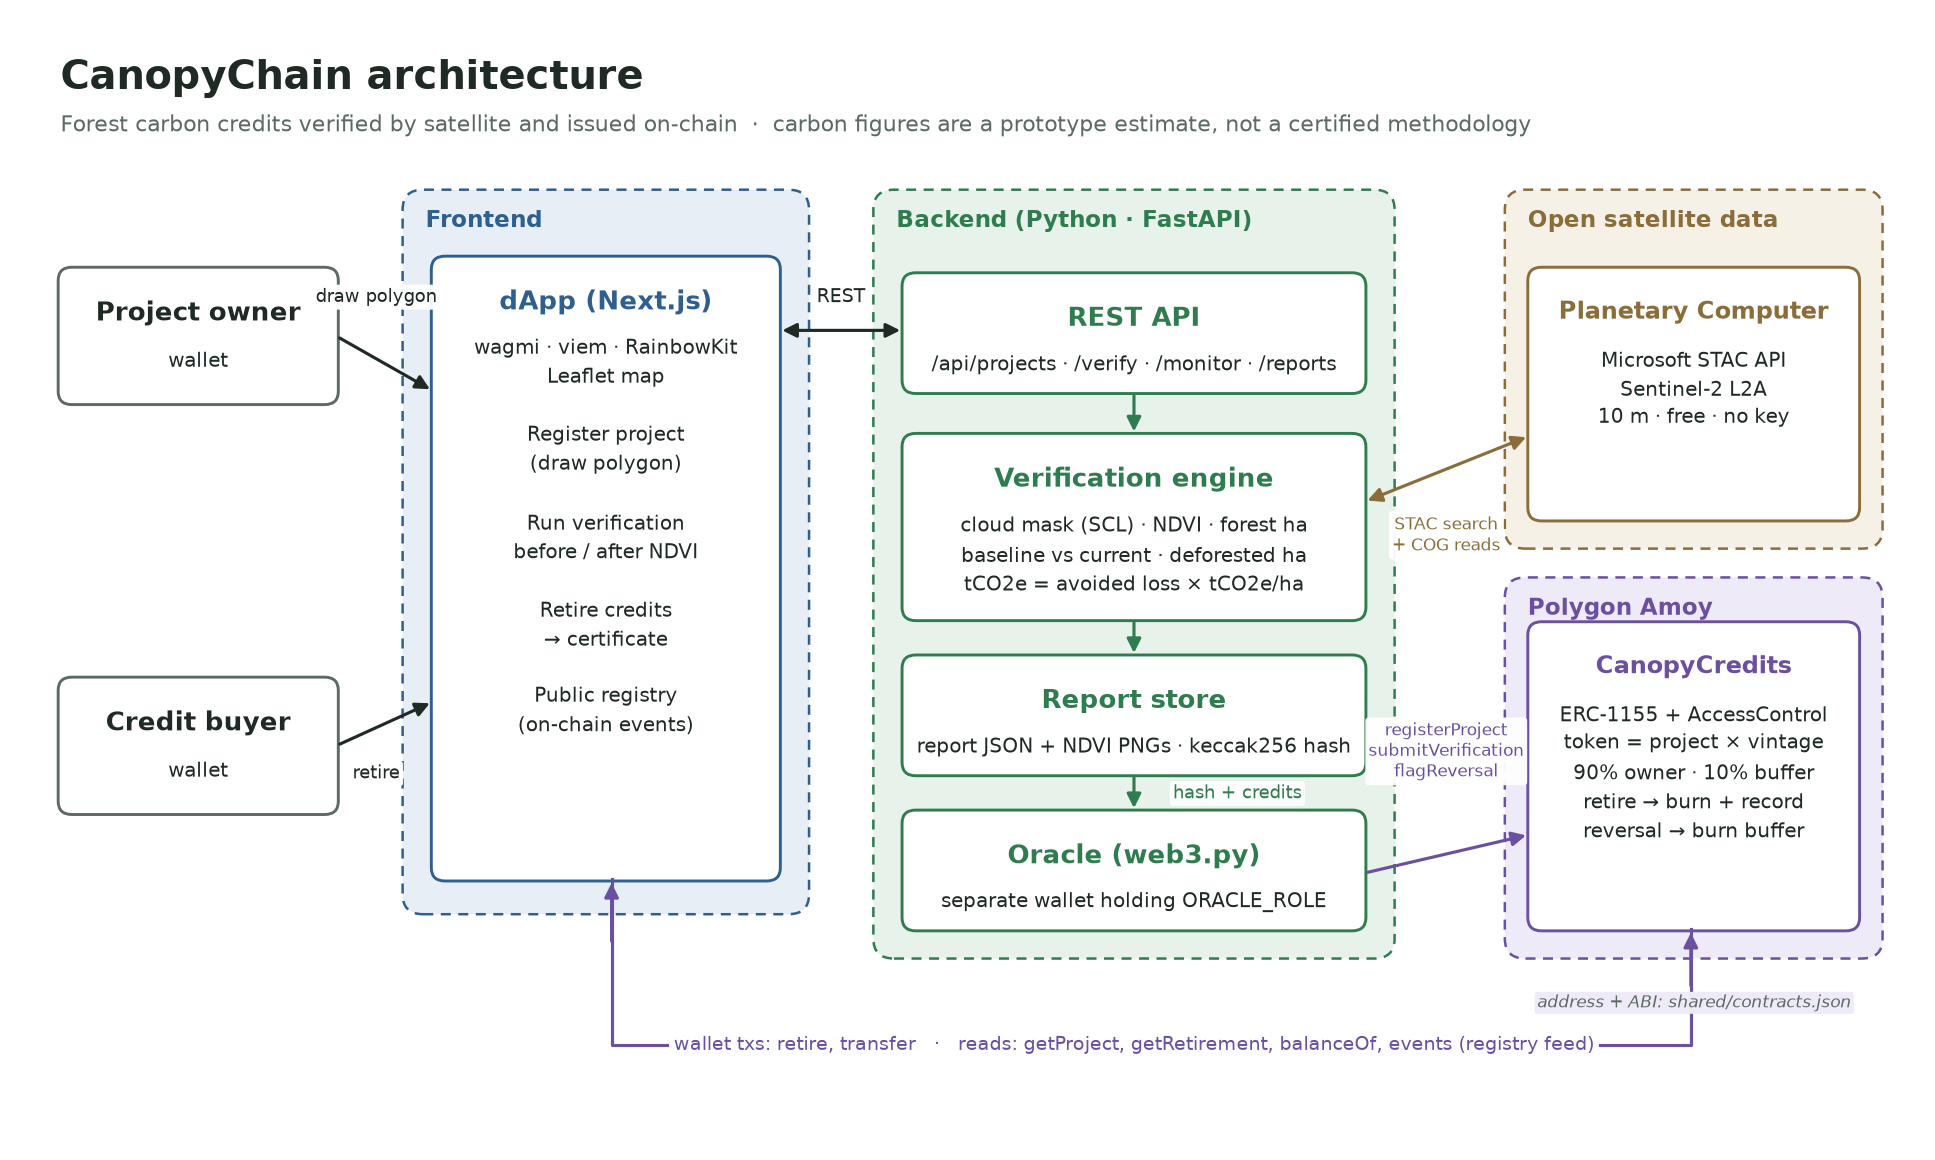
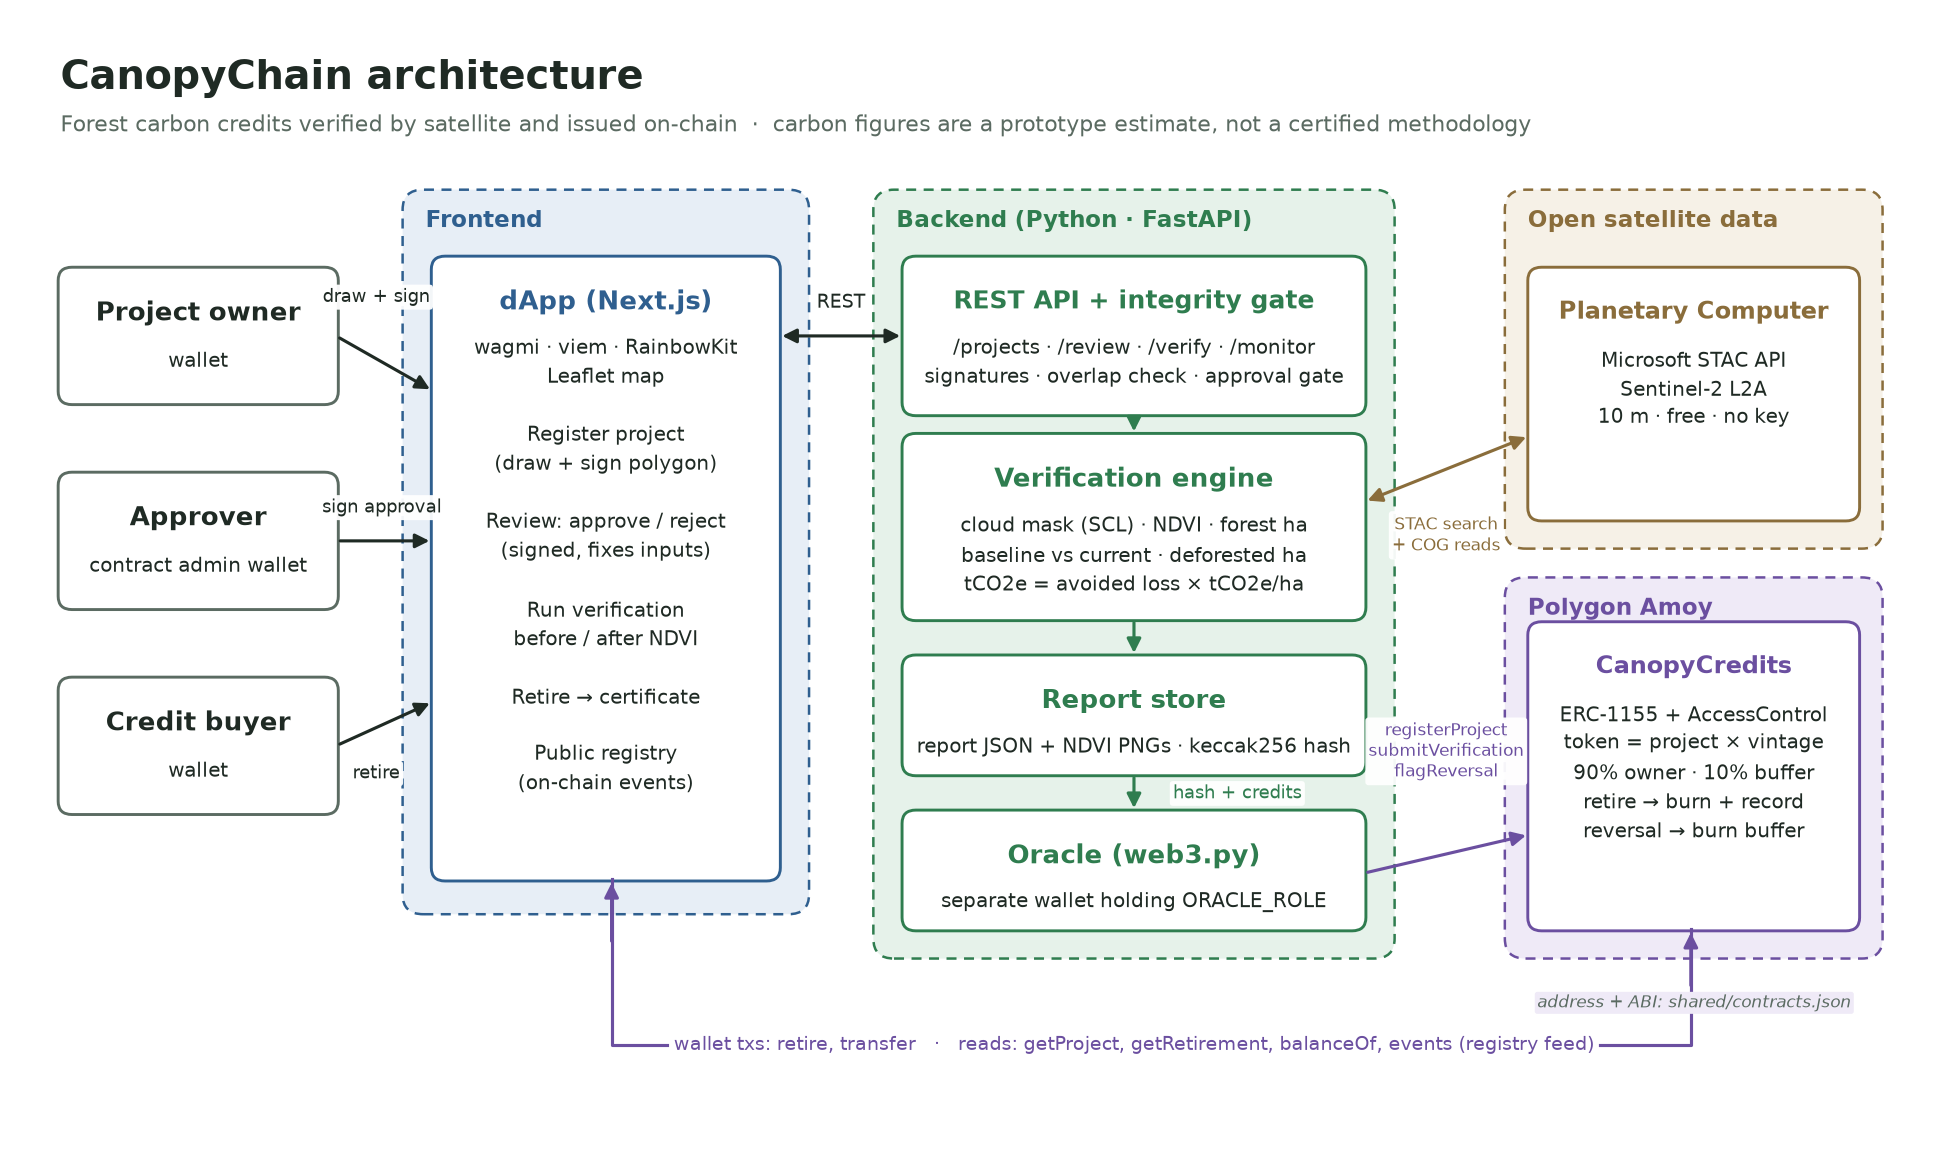
Architecture diagram: approver and the backend integrity gate

diff --git a/docs/architecture.py b/docs/architecture.py
@@ -65,17 +65,18 @@ ax.text(0.2, 8.5, "Forest carbon credits verified by satellite and issued on-cha
 
 # Users
 box(0.2, 5.9, 2.4, 1.2, "Project owner", "wallet", fc="white", ec=MUTED)
+box(0.2, 4.05, 2.4, 1.2, "Approver", "contract admin wallet", fc="white", ec=MUTED)
 box(0.2, 2.2, 2.4, 1.2, "Credit buyer", "wallet", fc="white", ec=MUTED)
 
 # Frontend
 group(3.2, 1.3, 3.5, 6.5, "Frontend", BLUE_BG, BLUE)
 box(3.45, 1.6, 3.0, 5.6, "dApp (Next.js)",
-    "wagmi · viem · RainbowKit\nLeaflet map\n\nRegister project\n(draw polygon)\n\nRun verification\nbefore / after NDVI\n\nRetire credits\n→ certificate\n\nPublic registry\n(on-chain events)",
+    "wagmi · viem · RainbowKit\nLeaflet map\n\nRegister project\n(draw + sign polygon)\n\nReview: approve / reject\n(signed, fixes inputs)\n\nRun verification\nbefore / after NDVI\n\nRetire → certificate\n\nPublic registry\n(on-chain events)",
     fc="white", ec=BLUE, title_color=BLUE)
 
 # Backend
 group(7.3, 0.9, 4.5, 6.9, "Backend (Python · FastAPI)", GREEN_BG, GREEN)
-box(7.55, 6.0, 4.0, 1.05, "REST API", "/api/projects · /verify · /monitor · /reports", fc="white", ec=GREEN, title_color=GREEN)
+box(7.55, 5.8, 4.0, 1.4, "REST API + integrity gate", "/projects · /review · /verify · /monitor\nsignatures · overlap check · approval gate", fc="white", ec=GREEN, title_color=GREEN, title_size=12)
 box(7.55, 3.95, 4.0, 1.65, "Verification engine",
     "cloud mask (SCL) · NDVI · forest ha\nbaseline vs current · deforested ha\ntCO2e = avoided loss × tCO2e/ha",
     fc="white", ec=GREEN, title_color=GREEN)
@@ -93,14 +94,15 @@ box(13.0, 1.15, 2.85, 2.75, "CanopyCredits",
     fc="white", ec=PURPLE, title_color=PURPLE, title_size=11.5)
 
 # Arrows: users → dApp
-arrow((2.6, 6.5), (3.45, 6.0), "draw polygon", label_xy=(2.95, 6.85), fs=8.8)
+arrow((2.6, 6.5), (3.45, 6.0), "draw + sign", label_xy=(2.95, 6.85), fs=8.8)
+arrow((2.6, 4.65), (3.45, 4.65), "sign approval", label_xy=(3.0, 4.95), fs=8.8)
 arrow((2.6, 2.8), (3.45, 3.2), "retire", label_xy=(2.95, 2.55), fs=8.8)
 
 # dApp ↔ API
-arrow((6.45, 6.55), (7.55, 6.55), "REST", label_xy=(7.0, 6.85), both=True)
+arrow((6.45, 6.5), (7.55, 6.5), "REST", label_xy=(7.0, 6.8), both=True)
 
 # API → engine → store → oracle
-arrow((9.55, 6.0), (9.55, 5.6), color=GREEN)
+arrow((9.55, 5.8), (9.55, 5.6), color=GREEN)
 arrow((9.55, 3.95), (9.55, 3.6), color=GREEN)
 arrow((9.55, 2.55), (9.55, 2.2), "hash + credits", label_xy=(10.45, 2.37), color=GREEN, fs=8.6)
 
